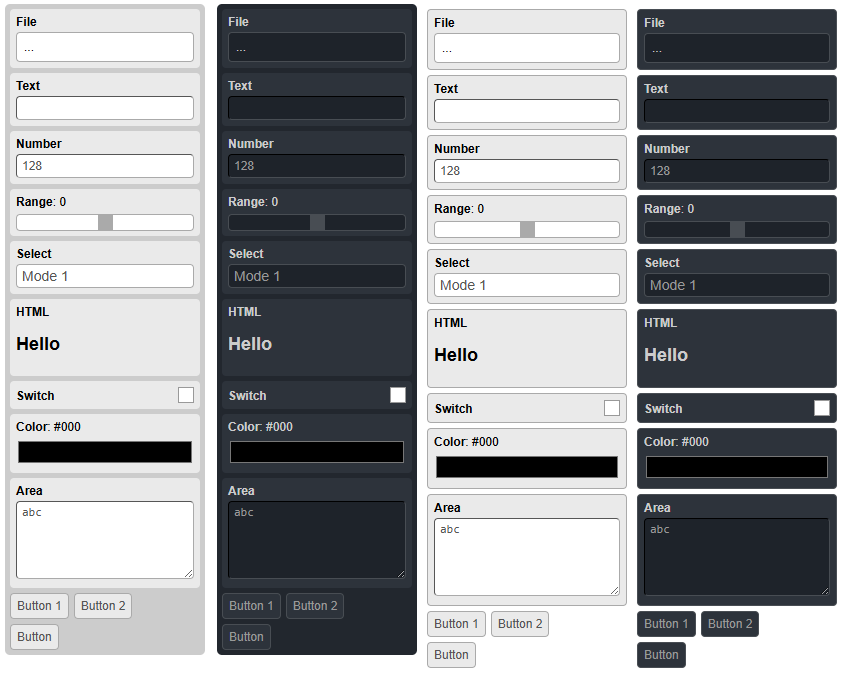
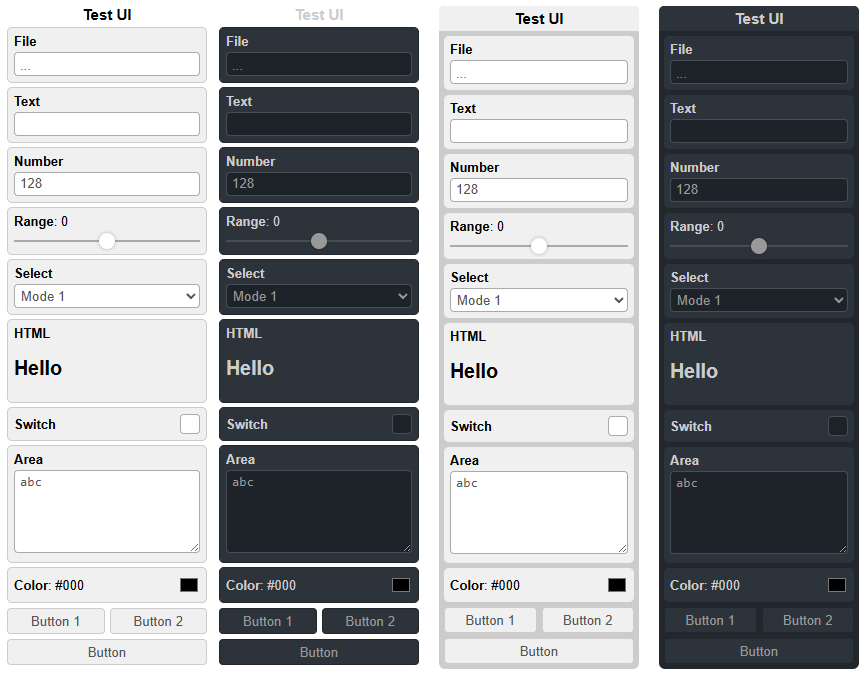
upd

Changed region(s): [[0.0, 0.0, 1.0, 0.9956]]

diff --git a/UI.min.js b/UI.min.js
@@ -1,1 +1,1 @@
-class t{static ctx;constructor(e,r={},n=!1){t.ctx=this,this.$root=t.make(e,r,n)}static make(e,r={},n=!1){return e&&"object"==typeof r?r instanceof Node?r:("svg"==e&&(n=!0),t.config(n?document.createElementNS("http://www.w3.org/2000/svg",e):document.createElement(e),r,n)):null}static config(e,r,n=!1){if(Array.isArray(e))return e.forEach(e=>t.config(e,r,n)),null;if(!(e instanceof Node)||"object"!=typeof r)return e;let a=r.context;t.ctx=null===a?null:a||t.ctx,a=t.ctx;let o=r=>{if(r)if(r instanceof Node)e.appendChild(r);else if(r instanceof t)e.appendChild(r.$root);else if("string"==typeof r)e.innerHTML+=r;else if("object"==typeof r){let a=t.make(r.tag??"div",r,n||"svg"==r.tag);a&&e.appendChild(a)}};for(const[n,i]of Object.entries(r)){switch(n){case"text":e.textContent=null==i?"":i+"";continue;case"html":e.innerHTML=null==i?"":i+"";continue;case"tag":case"context":case"get":case"also":continue}if(i)switch(n){case"class":(Array.isArray(i)?i:i.split(" ")).map(t=>t&&e.classList.add(t));break;case"push":i.push(e);break;case"$":case"var":a&&(a["$"+i]=e);break;case"events":for(let t in i)e.addEventListener(t,i[t].bind(a));break;case"parent":i.appendChild(e);break;case"attrs":for(let t in i)e.setAttribute(t,i[t]);break;case"props":for(let t in i)e[t]=i[t];break;case"child_r":t.clear(e);case"child":o(i);break;case"children_r":t.clear(e);case"children":for(let t of i)o(t);break;case"style":if("string"==typeof i)e.style.cssText+=i+";";else for(let t in i)i[t]&&(e.style[t]=i[t]);break;default:e[n]=i}}return r.also&&a&&r.also.call(a,e),e}static clear(t){for(;t.firstChild;)t.removeChild(t.lastChild)}static makeArray(e,r=!1){return e&&Array.isArray(e)?e.map(e=>t.make(e.tag,e,r)):[]}static makeShadow(e,r={},n=null){if(!e||"object"!=typeof r)return null;let a=e instanceof Node?e:document.createElement(e);return a.attachShadow({mode:"open"}),t.config(a.shadowRoot,{context:r.context,children:[{tag:"style",textContent:n??""},r.child??{},...r.children??[]]}),delete r.children,delete r.child,t.config(a,r),a}}new Set,new Map;class e{_data;constructor(t){this._data=t}get label(){return this._data.$label.innerText}set label(t){return this._data.$label.innerText=t+""}get value(){return this._data.$control.value}set value(t){return this._data.$control.value=t+""}get input(){return this._data.$control}display(t){this._data.$container.style.display=t?"block":"none"}show(){this.display(1)}hide(){this.display(0)}remove(){this._data.$container.remove()}default(){this.value=this._data.default+"",this._data.$output&&(this._data.$output.innerText=this._data.default+"")}}class r extends e{constructor(t){super(t)}set value(t){return this._data.$output&&(this._data.$output.innerText=t+""),this._data.$control.value=t+""}get value(){return Number(this._data.$control.value)}}class n extends e{constructor(t){super(t)}get value(){return this._data.$control.checked?1:0}set value(t){return this._data.$control.checked=t}default(){this.value=this._data.default}}class a extends e{constructor(t){super(t)}get value(){return this._data.$control.innerHTML}set value(t){return this._data.$control.innerHTML=t+""}}class o extends e{constructor(t){super(t)}get value(){return this._data.$control.files[0]}set value(t){}}class i extends e{constructor(t){super(t)}set value(t){}get value(){return 1}}class s extends r{constructor(t){super(t)}set options(e){return this._data.$control.replaceChildren(...e.map((e,r)=>t.make("option",{text:e,value:r+""})))}}class l extends e{constructor(t){super(t)}set value(t){this._data.$control.innerText=t+""}get value(){return this._data.$control.innerText}}class c{constructor(t={}){return c.css=function(t){if(t){let e=document.createElement("style");e.innerText=t,document.head.appendChild(e)}return null}(c.css),this.init(t)}init(e){return e&&"object"==typeof e?(this.autoVar=e.autoVar??!0,t.make("div",{class:"ui_main theme-"+(e.theme??"light"),style:{zIndex:e.zIndex??3,left:e.x??0,top:e.y??0,width:e.width?"string"==typeof e.width?e.width:e.width+"px":"200px",position:e.parent?"":"absolute"},parent:e.parent??document.body,children:[e.title&&{class:"ui_title_bar",text:e.title},{class:"ui_content",$:"content"}],$:"root",context:this}),this):this}setTheme(t){return this.$root.classList="ui_main theme-"+t,this}destroy(){this.$root&&(this.$root.remove(),this.$root=void 0,this.#t=new Map)}setLabels(t){for(let e in t)this.#t.has(e)&&(this.#t.get(e).label=t[e])}toObject(){let t={};return this.#t.forEach((e,r)=>{!e.value||e instanceof i||(t[r]=e.value)}),t}toJson(){return JSON.stringify(this.toObject())}fromObject(t){for(let e in t)this.#t.has(e)&&(this.#t.get(e).value=t[e])}fromJson(t){this.fromObject(JSON.parse(t))}control(t){return this.#t.get(t)}get(t){return this.#t.has(t)?this.#t.get(t).value:void 0}set(t,e){return this.#t.has(t)&&(this.#t.get(t).value=e),e}remove(t){"string"==typeof t&&(t=[t]);for(let e of t)this.#t.has(e)&&(this.#t.get(e).remove(),this.#t.delete(e),Object.defineProperty(this,e,{get:void 0,set:void 0}))}removeAll(){this.remove(Array.from(this.#t.keys())),function(t){for(;t.firstChild;)t.removeChild(t.lastChild)}(this.$content)}onChange(t){this.#e=t}addSwitch(e,r,a,o){if(this.#t.has(e))return this;let i={default:a=a?1:0};return t.make("div",{context:i,$:"container",class:"ui_container",parent:this.$content,child:{tag:"label",class:"ui_checkbox_cont",children:[{tag:"label",text:r,$:"label"},{tag:"div",class:"ui_checkbox",child:{tag:"label",children:[{tag:"input",type:"checkbox",checked:a,$:"control",events:{change:t=>{let r=t.target.checked?1:0;this.#e(e,r),o&&o(r)}}},{tag:"span"}]}}]}}),e&&this.#t.set(e,new n(i)),this._addSetGet(e),this}addNumber(e,n,a,o,i){if(this.#t.has(e))return this;a=a??0;let s=this._makeContainer(n);return s.default=a,t.make("input",{parent:s.$container,context:s,type:"number",class:"ui_text_input",step:(o??1)+"",value:a+"",$:"control",events:{input:t=>{let r=Number(t.target.value);this.#e(e,r),i&&i(r)},mousewheel:()=>{}}}),e&&this.#t.set(e,new r(s)),this._addSetGet(e),this}addText(r,n,a,o){if(this.#t.has(r))return this;a=a??"";let i=this._makeContainer(n);return i.default=a,t.make("input",{parent:i.$container,context:i,type:"text",class:"ui_text_input",value:a+"",$:"control",events:{input:t=>{let e=t.target.value;this.#e(r,e),o&&o(e)}}}),r&&this.#t.set(r,new e(i)),this._addSetGet(r),this}addRange(...t){return this.addSlider(...t)}addRange(e,n,a,o,i,s,l){if(this.#t.has(e))return this;a=a??0;let c=this._makeContainerOut(n,a);return c.default=a,t.make("div",{parent:c.$container,context:c,class:"ui_range_cont",child:{tag:"input",type:"range",class:"ui_range",value:a+"",min:(o??0)+"",max:(i??100)+"",step:(s??1)+"",$:"control",events:{input:t=>{let r=Number(t.target.value);this.#e(e,r),l&&l(r),c.$output.innerText=r},mousewheel:t=>{t.stopPropagation(),t.preventDefault();let e=t.target;e.value=Number(e.value)+Number(e.step)*(t.deltaY>0?-1:1),e.dispatchEvent(new Event("input"))}}}}),e&&this.#t.set(e,new r(c)),this._addSetGet(e),this}addArea(r,n,a,o,i=5){if(this.#t.has(r))return this;a=a??"";let s=this._makeContainer(n);return s.default=a,t.make("textarea",{parent:s.$container,context:s,class:"ui_textarea",rows:i,value:a+"",$:"control",events:{input:t=>{let e=t.target.value;this.#e(r,e),o&&o(e)}}}),r&&this.#t.set(r,new e(s)),this._addSetGet(r),this}addHTML(e,r,n){if(this.#t.has(e))return this;n=n??"";let o=this._makeContainer(r);return o.default=n,t.make("div",{parent:o.$container,context:o,html:n+"",$:"control"}),e&&this.#t.set(e,new a(o)),this._addSetGet(e),this}addElement(t,e,r){if(this.#t.has(t))return this;let n=this._makeContainer(e);return n.default=r,n.$control=r,n.$container.append(r),t&&this.#t.set(t,new a(n)),this._addSetGet(t),this}addSelect(e,r,n,a){if(this.#t.has(e))return this;n=n??[];let o=this._makeContainer(r);return o.default=0,t.make("select",{parent:o.$container,context:o,class:"ui_select",$:"control",events:{change:t=>{let r=t.target.selectedIndex,n=t.target.options[r].text;this.#e(e,r,n),a&&a(r,n)}},children:n.map((e,r)=>t.make("option",{text:e,value:r+""}))}),e&&this.#t.set(e,new s(o)),this._addSetGet(e),this}addButton(e,r,n){if(this.#t.has(e))return this;let a={};return t.make("div",{context:a,$:"container",class:"ui_button_cont",parent:this.$content,children:[this._makeButton(a,e,r,n)]}),a.$label=a.$control,e&&this.#t.set(e,new i(a)),this}addButtons(e){let r=t.make("div",{class:"ui_button_cont",parent:this.$content});for(let t in e){let n={$container:r},a=e[t];r.append(Array.isArray(a)?this._makeButton(n,t,a[0],a[1]):this._makeButton(n,t,a)),n.$label=n.$control,t&&this.#t.set(t,new i(n))}return this}addFile(e,r,n){if(this.#t.has(e))return this;let a=this._makeContainer(r),i=t=>{let r=1==t.length?t[0]:t;this.#e(e,r),n&&n(r),a.$filename.innerText=t[0].name};return a.$container.append(...t.makeArray([{tag:"input",context:a,class:"ui_file_chooser",type:"file",$:"control",attrs:{multiple:!0},also(t){t.addEventListener("change",()=>i(t.files))}},{tag:"label",context:a,class:"ui_file_chooser_label",text:"...",$:"filename",also(t){t.addEventListener("click",()=>a.$control.click()),t.addEventListener("drop",t=>i(t.dataTransfer.files))}}])),e&&this.#t.set(e,new o(a)),["dragenter","dragover","dragleave","drop"].forEach(t=>{this.$root.addEventListener(t,t=>{t.preventDefault(),t.stopPropagation()},!1)}),["dragenter","dragover"].forEach(t=>{this.$root.addEventListener(t,function(){a.$filename.classList.add("active")},!1)}),["dragleave","drop"].forEach(t=>{this.$root.addEventListener(t,function(){a.$filename.classList.remove("active")},!1)}),this._addSetGet(e),this}addColor(e,n,a,o){if(this.#t.has(e))return this;a=a??"#000";let i=this._makeContainerOut(n,a);return i.default=a,i.$container.append(t.make("input",{context:i,type:"color",class:"ui_color",value:a,$:"control",attrs:{"colorpick-eyedropper-active":!1},events:{input:t=>{let r=t.target.value;this.#e(e,r),o&&o(r),i.$output.innerText=r}}})),e&&this.#t.set(e,new r(i)),this._addSetGet(e),this}addLabel(t,e,r){if(this.#t.has(t))return this;r=r??"";let n=this._makeContainerOut(e,r);return n.$control=n.$output,t&&this.#t.set(t,new l(n)),this._addSetGet(t),this}addSpace(e=5){return t.make("div",{style:`height: ${e}px`,parent:this.$content}),this}_addSetGet(t){this.autoVar&&t&&Object.defineProperty(this,t,{get:()=>this.get(t),set:e=>this.set(t,e),configurable:!0})}_checkID(t){return t||"_empty_"+this.#r++}_makeButton(e,r,n,a){return t.make("button",{context:e,class:"ui_button",$:"control",text:n+"",events:{click:t=>{this.#e(r),a&&a()}}})}_makeContainer(e){let r={};return t.make("div",{context:r,$:"container",class:"ui_container",parent:this.$content,children:[{class:"ui_label",children:[{tag:"b",$:"label",text:e}]}]}),r}_makeContainerOut(e,r){let n={};return t.make("div",{context:n,$:"container",class:"ui_container",parent:this.$content,children:[{class:"ui_label",children:[{tag:"b",text:e,$:"label"},{tag:"span",text:": "},{tag:"span",text:r+"",$:"output"}]}]}),n}#t=new Map;#r=0;#e=()=>{};static css='.ui_main.theme-light{--border:#aaa;--back:#fff;--mid:#ccc;--tab:#f0f0f0;--font:#000;--font-mid:#555;--thumb:var(--back)}.ui_main.theme-dark{--border:#484d53;--back:rgb(30, 35, 42);--mid:#22272E;--tab:#2D333B;--font:#ccc;--font-mid:#999;--thumb:var(--font-mid)}.ui_main{background-color:var(--mid);text-align:left;font:13px sans-serif;user-select:none;border:none;border-radius:6px}.ui_main.noback{background:none}.ui_main.noback .ui_container{border:1px solid var(--mid);margin:4px 0}.ui_main.noback .ui_title_bar{background:none;padding:0}.ui_main.noback .ui_button_cont{margin:5px 0}.ui_content{overflow-y:auto;border-radius:6px}.ui_title_bar{text-align:center;padding:4px;font-weight:700;border:none;background:var(--tab);color:var(--font);font-size:15px;border-radius:5px 5px 0 0}.ui_container{margin:5px;padding:6px;border:none;position:relative;background:var(--tab);color:var(--font);border-radius:5px}.ui_range_cont{display:flex;align-items:center;padding:8px 0 6px 0}.ui_range{appearance:none;box-sizing:border-box;margin:0;padding:0;width:100%;height:2px;background:var(--border);cursor:pointer;touch-action:none}.ui_range::-webkit-slider-thumb{appearance:none;background:var(--thumb);width:16px;height:16px;border-radius:50%;box-shadow:0 0 4px #0000005a}.ui_range::-moz-range-thumb{border:none;background:var(--thumb);width:16px;height:16px;border-radius:50%}.ui_button_cont{margin:5px;gap:5px;display:flex}.ui_button{cursor:pointer;background:var(--tab);color:var(--font-mid);height:26px;border:1px solid var(--mid);border-radius:4px;width:100%}.ui_button:hover{filter:brightness(.96)}.ui_button:active{background:var(--back)}.ui_checkbox_cont{cursor:pointer;display:flex;align-items:center;justify-content:space-between}.ui_checkbox_cont label{font-weight:700;pointer-events:none}.ui_checkbox{display:inline-block}.ui_checkbox label{display:flex;align-items:center;cursor:pointer;user-select:none}.ui_checkbox input{display:none}.ui_checkbox span{width:18px;height:18px;border:1px solid var(--border);border-radius:4px;background-color:var(--back);position:relative}.ui_checkbox input:checked+span::after{content:"✓";position:absolute;left:3px;top:-2px;font-size:16px;color:var(--font);font-weight:700}.ui_label{margin-bottom:3px;user-select:none;-webkit-user-select:none;cursor:default}.ui_text_input{box-sizing:border-box;width:100%;padding:5px;height:24px;line-height:24px;border:1px solid var(--border);background:var(--back);color:var(--font-mid);outline:none;border-radius:4px}.ui_select{background:var(--back);color:var(--font-mid);width:100%;height:24px;border:1px solid var(--border);border-radius:0;padding:0 2px;cursor:pointer;border-radius:4px}.ui_textarea{box-sizing:border-box;resize:vertical;width:100%;padding:3px 5px;border:1px solid var(--border);background:var(--back);color:var(--font-mid);outline:none;border-radius:4px}.ui_textarea::-webkit-scrollbar{width:7px;height:7px}.ui_textarea::-webkit-scrollbar-track{background:none}.ui_textarea::-webkit-scrollbar-thumb{background:var(--border);border-radius:4px}.ui_color{padding:0;margin:0;outline:none;cursor:pointer;background:none;border:none;height:24px;width:100%}.ui_file_chooser{display:none}.ui_file_chooser_label{background:var(--back);color:var(--font-mid);height:24px;border:1px solid var(--border);width:100%;display:block;cursor:pointer;padding:5px;box-sizing:border-box;white-space:nowrap;overflow:hidden;text-overflow:ellipsis;border-radius:4px}.ui_file_chooser_label.active{border-width:2px}'}export{c as default};
+class t{static ctx;constructor(e,r={},n=!1){t.ctx=this,this.$root=t.make(e,r,n)}static make(e,r={},n=!1){return e&&"object"==typeof r?r instanceof Node?r:("svg"==e&&(n=!0),t.config(n?document.createElementNS("http://www.w3.org/2000/svg",e):document.createElement(e),r,n)):null}static config(e,r,n=!1){if(Array.isArray(e))return e.forEach(e=>t.config(e,r,n)),null;if(!(e instanceof Node)||"object"!=typeof r)return e;let a=r.context;t.ctx=null===a?null:a||t.ctx,a=t.ctx;let o=r=>{if(r)if(r instanceof Node)e.appendChild(r);else if(r instanceof t)e.appendChild(r.$root);else if("string"==typeof r)e.innerHTML+=r;else if("object"==typeof r){let a=t.make(r.tag??"div",r,n||"svg"==r.tag);a&&e.appendChild(a)}};for(const[n,i]of Object.entries(r)){switch(n){case"text":e.textContent=null==i?"":i+"";continue;case"html":e.innerHTML=null==i?"":i+"";continue;case"tag":case"context":case"get":case"also":continue}if(i)switch(n){case"class":(Array.isArray(i)?i:i.split(" ")).map(t=>t&&e.classList.add(t));break;case"push":i.push(e);break;case"$":case"var":a&&(a["$"+i]=e);break;case"events":for(let t in i)e.addEventListener(t,i[t].bind(a));break;case"parent":i.appendChild(e);break;case"attrs":for(let t in i)e.setAttribute(t,i[t]);break;case"props":for(let t in i)e[t]=i[t];break;case"child_r":t.clear(e);case"child":o(i);break;case"children_r":t.clear(e);case"children":for(let t of i)o(t);break;case"style":if("string"==typeof i)e.style.cssText+=i+";";else for(let t in i)i[t]&&(e.style[t]=i[t]);break;default:e[n]=i}}return r.also&&a&&r.also.call(a,e),e}static clear(t){for(;t.firstChild;)t.removeChild(t.lastChild)}static makeArray(e,r=!1){return e&&Array.isArray(e)?e.map(e=>t.make(e.tag,e,r)):[]}static makeShadow(e,r={},n=null){if(!e||"object"!=typeof r)return null;let a=e instanceof Node?e:document.createElement(e);return a.attachShadow({mode:"open"}),t.config(a.shadowRoot,{context:r.context,children:[{tag:"style",textContent:n??""},r.child??{},...r.children??[]]}),delete r.children,delete r.child,t.config(a,r),a}}new Set,new Map;class e{_data;constructor(t){this._data=t}get label(){return this._data.$label.innerText}set label(t){return this._data.$label.innerText=t+""}get value(){return this._data.$control.value}set value(t){return this._data.$control.value=t+""}get input(){return this._data.$control}display(t){this._data.$container.style.display=t?"block":"none"}show(){this.display(1)}hide(){this.display(0)}remove(){this._data.$container.remove()}default(){this.value=this._data.default+"",this._data.$output&&(this._data.$output.innerText=this._data.default+"")}}class r extends e{constructor(t){super(t)}set value(t){return this._data.$output&&(this._data.$output.innerText=t+""),this._data.$control.value=t+""}get value(){return Number(this._data.$control.value)}}class n extends e{constructor(t){super(t)}get value(){return this._data.$control.checked?1:0}set value(t){return this._data.$control.checked=t}default(){this.value=this._data.default}}class a extends e{constructor(t){super(t)}get value(){return this._data.$control.innerHTML}set value(t){return this._data.$control.innerHTML=t+""}}class o extends e{constructor(t){super(t)}get value(){return this._data.$control.files[0]}set value(t){}}class i extends e{constructor(t){super(t)}set value(t){}get value(){return 1}}class s extends r{constructor(t){super(t)}set options(e){return this._data.$control.replaceChildren(...e.map((e,r)=>t.make("option",{text:e,value:r+""})))}}class l extends e{constructor(t){super(t)}set value(t){this._data.$control.innerText=t+""}get value(){return this._data.$control.innerText}}class c{constructor(t={}){return c.css=function(t){if(t){let e=document.createElement("style");e.innerText=t,document.head.appendChild(e)}return null}(c.css),this.init(t)}init(e){return e&&"object"==typeof e?(this.autoVar=e.autoVar??!0,t.make("div",{class:"ui_main theme-"+(e.theme??"light"),style:{zIndex:e.zIndex??3,left:e.x??0,top:e.y??0,width:e.width?"string"==typeof e.width?e.width:e.width+"px":"200px",position:e.parent?"":"absolute"},parent:e.parent??document.body,children:[e.title&&{class:"ui_title_bar",text:e.title},{class:"ui_content",$:"content"}],$:"root",context:this}),this):this}setTheme(t){return this.$root.classList="ui_main theme-"+t,this}destroy(){this.$root&&(this.$root.remove(),this.$root=void 0,this.#t=new Map)}setLabels(t){for(let e in t)this.#t.has(e)&&(this.#t.get(e).label=t[e])}toObject(){let t={};return this.#t.forEach((e,r)=>{!e.value||e instanceof i||(t[r]=e.value)}),t}toJson(){return JSON.stringify(this.toObject())}fromObject(t){for(let e in t)this.#t.has(e)&&(this.#t.get(e).value=t[e])}fromJson(t){this.fromObject(JSON.parse(t))}control(t){return this.#t.get(t)}get(t){return this.#t.has(t)?this.#t.get(t).value:void 0}set(t,e){return this.#t.has(t)&&(this.#t.get(t).value=e),e}remove(t){"string"==typeof t&&(t=[t]);for(let e of t)this.#t.has(e)&&(this.#t.get(e).remove(),this.#t.delete(e),Object.defineProperty(this,e,{get:void 0,set:void 0}))}removeAll(){this.remove(Array.from(this.#t.keys())),function(t){for(;t.firstChild;)t.removeChild(t.lastChild)}(this.$content)}onChange(t){this.#e=t}addSwitch(e,r,a,o){if(this.#t.has(e))return this;let i={default:a=a?1:0};return t.make("div",{context:i,$:"container",class:"ui_container",parent:this.$content,child:{tag:"label",class:"ui_checkbox_cont",children:[{tag:"label",text:r,$:"label"},{tag:"div",class:"ui_checkbox",child:{tag:"label",children:[{tag:"input",type:"checkbox",checked:a,$:"control",events:{change:t=>{let r=t.target.checked?1:0;this.#e(e,r),o&&o(r)}}},{tag:"span"}]}}]}}),e&&this.#t.set(e,new n(i)),this._addSetGet(e),this}addNumber(e,n,a,o,i){if(this.#t.has(e))return this;a=a??0;let s=this._makeContainer(n);return s.default=a,t.make("input",{parent:s.$container,context:s,type:"number",class:"ui_text_input",step:(o??1)+"",value:a+"",$:"control",events:{input:t=>{let r=Number(t.target.value);this.#e(e,r),i&&i(r)},mousewheel:()=>{}}}),e&&this.#t.set(e,new r(s)),this._addSetGet(e),this}addText(r,n,a,o){if(this.#t.has(r))return this;a=a??"";let i=this._makeContainer(n);return i.default=a,t.make("input",{parent:i.$container,context:i,type:"text",class:"ui_text_input",value:a+"",$:"control",events:{input:t=>{let e=t.target.value;this.#e(r,e),o&&o(e)}}}),r&&this.#t.set(r,new e(i)),this._addSetGet(r),this}addRange(...t){return this.addSlider(...t)}addSlider(e,n,a,o,i,s,l){if(this.#t.has(e))return this;a=a??0;let c=this._makeContainerOut(n,a);return c.default=a,t.make("div",{parent:c.$container,context:c,class:"ui_range_cont",child:{tag:"input",type:"range",class:"ui_range",value:a+"",min:(o??0)+"",max:(i??100)+"",step:(s??1)+"",$:"control",events:{input:t=>{let r=Number(t.target.value);this.#e(e,r),l&&l(r),c.$output.innerText=r},mousewheel:t=>{t.stopPropagation(),t.preventDefault();let e=t.target;e.value=Number(e.value)+Number(e.step)*(t.deltaY>0?-1:1),e.dispatchEvent(new Event("input"))}}}}),e&&this.#t.set(e,new r(c)),this._addSetGet(e),this}addArea(r,n,a,o,i=5){if(this.#t.has(r))return this;a=a??"";let s=this._makeContainer(n);return s.default=a,t.make("textarea",{parent:s.$container,context:s,class:"ui_textarea",rows:i,value:a+"",$:"control",events:{input:t=>{let e=t.target.value;this.#e(r,e),o&&o(e)}}}),r&&this.#t.set(r,new e(s)),this._addSetGet(r),this}addHTML(e,r,n){if(this.#t.has(e))return this;n=n??"";let o=this._makeContainer(r);return o.default=n,t.make("div",{parent:o.$container,context:o,html:n+"",$:"control"}),e&&this.#t.set(e,new a(o)),this._addSetGet(e),this}addElement(t,e,r){if(this.#t.has(t))return this;let n=this._makeContainer(e);return n.default=r,n.$control=r,n.$container.append(r),t&&this.#t.set(t,new a(n)),this._addSetGet(t),this}addSelect(e,r,n,a){if(this.#t.has(e))return this;n=n??[];let o=this._makeContainer(r);return o.default=0,t.make("select",{parent:o.$container,context:o,class:"ui_select",$:"control",events:{change:t=>{let r=t.target.selectedIndex,n=t.target.options[r].text;this.#e(e,r,n),a&&a(r,n)}},children:n.map((e,r)=>t.make("option",{text:e,value:r+""}))}),e&&this.#t.set(e,new s(o)),this._addSetGet(e),this}addButton(e,r,n){if(this.#t.has(e))return this;let a={};return t.make("div",{context:a,$:"container",class:"ui_button_cont",parent:this.$content,children:[this._makeButton(a,e,r,n)]}),a.$label=a.$control,e&&this.#t.set(e,new i(a)),this}addButtons(e){let r=t.make("div",{class:"ui_button_cont",parent:this.$content});for(let t in e){let n={$container:r},a=e[t];r.append(Array.isArray(a)?this._makeButton(n,t,a[0],a[1]):this._makeButton(n,t,a)),n.$label=n.$control,t&&this.#t.set(t,new i(n))}return this}addFile(e,r,n){if(this.#t.has(e))return this;let a=this._makeContainer(r),i=t=>{let r=1==t.length?t[0]:t;this.#e(e,r),n&&n(r),a.$filename.innerText=t[0].name};return a.$container.append(...t.makeArray([{tag:"input",context:a,class:"ui_file_chooser",type:"file",$:"control",attrs:{multiple:!0},also(t){t.addEventListener("change",()=>i(t.files))}},{tag:"label",context:a,class:"ui_file_chooser_label",text:"...",$:"filename",also(t){t.addEventListener("click",()=>a.$control.click()),t.addEventListener("drop",t=>i(t.dataTransfer.files))}}])),e&&this.#t.set(e,new o(a)),["dragenter","dragover","dragleave","drop"].forEach(t=>{this.$root.addEventListener(t,t=>{t.preventDefault(),t.stopPropagation()},!1)}),["dragenter","dragover"].forEach(t=>{this.$root.addEventListener(t,function(){a.$filename.classList.add("active")},!1)}),["dragleave","drop"].forEach(t=>{this.$root.addEventListener(t,function(){a.$filename.classList.remove("active")},!1)}),this._addSetGet(e),this}addColor(e,n,a,o){if(this.#t.has(e))return this;a=a??"#000";let i=this._makeContainerOut(n,a);return i.default=a,t.config(i.$container,{context:i,class:"ui_color_cont",child:{tag:"input",type:"color",class:"ui_color",value:a,$:"control",attrs:{"colorpick-eyedropper-active":!1},events:{input:t=>{let r=t.target.value;this.#e(e,r),o&&o(r),i.$output.innerText=r}}}}),e&&this.#t.set(e,new r(i)),this._addSetGet(e),this}addLabel(t,e,r){if(this.#t.has(t))return this;r=r??"";let n=this._makeContainerOut(e,r);return n.$control=n.$output,t&&this.#t.set(t,new l(n)),this._addSetGet(t),this}addSpace(e=5){return t.make("div",{style:`height: ${e}px`,parent:this.$content}),this}_addSetGet(t){this.autoVar&&t&&Object.defineProperty(this,t,{get:()=>this.get(t),set:e=>this.set(t,e),configurable:!0})}_checkID(t){return t||"_empty_"+this.#r++}_makeButton(e,r,n,a){return t.make("button",{context:e,class:"ui_button",$:"control",text:n+"",events:{click:t=>{this.#e(r),a&&a()}}})}_makeContainer(e){let r={};return t.make("div",{context:r,$:"container",class:"ui_container",parent:this.$content,children:[{class:"ui_label",children:[{tag:"b",$:"label",text:e}]}]}),r}_makeContainerOut(e,r){let n={};return t.make("div",{context:n,$:"container",class:"ui_container",parent:this.$content,children:[{class:"ui_label",children:[{tag:"b",text:e,$:"label"},{tag:"span",text:": "},{tag:"span",text:r+"",$:"output"}]}]}),n}#t=new Map;#r=0;#e=()=>{};static css='.ui_main.theme-light{--border:#aaa;--back:#fff;--mid:#ccc;--tab:#f0f0f0;--font:#000;--font-mid:#555;--thumb:var(--back)}.ui_main.theme-dark{--border:#484d53;--back:rgb(30, 35, 42);--mid:#22272E;--tab:#2D333B;--font:#ccc;--font-mid:#999;--thumb:var(--font-mid)}.ui_main{background-color:var(--mid);text-align:left;font:13px sans-serif;user-select:none;border:none;border-radius:6px}.ui_main.noback{background:none}.ui_main.noback .ui_container{border:1px solid var(--mid);margin:4px 0}.ui_main.noback .ui_title_bar{background:none;padding:0}.ui_main.noback .ui_button_cont{margin:5px 0}.ui_content{overflow-y:auto;border-radius:6px}.ui_title_bar{text-align:center;padding:4px;font-weight:700;border:none;background:var(--tab);color:var(--font);font-size:15px;border-radius:5px 5px 0 0}.ui_container{margin:5px;padding:6px;border:none;position:relative;background:var(--tab);color:var(--font);border-radius:5px}.ui_range_cont{display:flex;align-items:center;padding:8px 0 6px 0}.ui_range{appearance:none;box-sizing:border-box;margin:0;padding:0;width:100%;height:2px;background:var(--border);cursor:pointer;touch-action:none}.ui_range::-webkit-slider-thumb{appearance:none;background:var(--thumb);width:16px;height:16px;border-radius:50%;box-shadow:0 0 4px #0000005a}.ui_range::-moz-range-thumb{border:none;background:var(--thumb);width:16px;height:16px;border-radius:50%}.ui_button_cont{margin:5px;gap:5px;display:flex}.ui_button{cursor:pointer;background:var(--tab);color:var(--font-mid);height:26px;border:1px solid var(--mid);border-radius:4px;width:100%}.ui_button:hover{filter:brightness(.96)}.ui_button:active{background:var(--back)}.ui_checkbox_cont{cursor:pointer;display:flex;align-items:center;justify-content:space-between}.ui_checkbox_cont label{font-weight:700;pointer-events:none}.ui_checkbox{display:inline-block}.ui_checkbox label{display:flex;align-items:center;cursor:pointer;user-select:none}.ui_checkbox input{display:none}.ui_checkbox span{width:18px;height:18px;border:1px solid var(--border);border-radius:4px;background-color:var(--back);position:relative}.ui_checkbox input:checked+span::after{content:"✓";position:absolute;left:3px;top:-2px;font-size:16px;color:var(--font);font-weight:700}.ui_label{margin-bottom:3px;user-select:none;-webkit-user-select:none;cursor:default}.ui_text_input{box-sizing:border-box;width:100%;padding:5px;height:24px;line-height:24px;border:1px solid var(--border);background:var(--back);color:var(--font-mid);outline:none;border-radius:4px}.ui_select{background:var(--back);color:var(--font-mid);width:100%;height:24px;border:1px solid var(--border);border-radius:0;padding:0 2px;cursor:pointer;border-radius:4px}.ui_textarea{box-sizing:border-box;resize:vertical;width:100%;padding:3px 5px;border:1px solid var(--border);background:var(--back);color:var(--font-mid);outline:none;border-radius:4px}.ui_textarea::-webkit-scrollbar{width:7px;height:7px}.ui_textarea::-webkit-scrollbar-track{background:none}.ui_textarea::-webkit-scrollbar-thumb{background:var(--border);border-radius:4px}.ui_color_cont{display:flex;align-items:center;justify-content:space-between}.ui_color_cont .ui_label{margin:0}.ui_color{cursor:pointer;padding:0;margin:0;outline:none;border:none;background:none;height:22px;width:22px}.ui_file_chooser{display:none}.ui_file_chooser_label{background:var(--back);color:var(--font-mid);height:24px;border:1px solid var(--border);width:100%;display:block;cursor:pointer;padding:5px;box-sizing:border-box;white-space:nowrap;overflow:hidden;text-overflow:ellipsis;border-radius:4px}.ui_file_chooser_label.active{border-width:2px}'}export{c as default};

diff --git a/UI.js b/UI.js
@@ -434,7 +434,7 @@ export default class UI {
     addRange(...args) {
         return this.addSlider(...args);
     }
-    addRange(id, label, value, min, max, step, callback) {
+    addSlider(id, label, value, min, max, step, callback) {
         if (this.#controls.has(id)) return this;
         value = value ?? 0;
         let data = this._makeContainerOut(label, value);
@@ -697,22 +697,26 @@ export default class UI {
         value = value ?? '#000';
         let data = this._makeContainerOut(label, value);
         data.default = value;
-        data.$container.append(EL.make('input', {
+        EL.config(data.$container, {
             context: data,
-            type: 'color',
-            class: 'ui_color',
-            value: value,
-            $: 'control',
-            attrs: { 'colorpick-eyedropper-active': false },
-            events: {
-                input: e => {
-                    let v = e.target.value;
-                    this.#cb(id, v);
-                    if (callback) callback(v);
-                    data.$output.innerText = v;
-                }
-            },
-        }));
+            class: 'ui_color_cont',
+            child: {
+                tag: 'input',
+                type: 'color',
+                class: 'ui_color',
+                value: value,
+                $: 'control',
+                attrs: { 'colorpick-eyedropper-active': false },
+                events: {
+                    input: e => {
+                        let v = e.target.value;
+                        this.#cb(id, v);
+                        if (callback) callback(v);
+                        data.$output.innerText = v;
+                    }
+                },
+            }
+        });
         if (id) this.#controls.set(id, new ControlNumber(data));
         this._addSetGet(id);
         return this;
@@ -830,5 +834,5 @@ export default class UI {
     #cb = () => { };
 
     // https://www.minifier.org/
-    static css = `.ui_main.theme-light{--border:#aaa;--back:#fff;--mid:#ccc;--tab:#f0f0f0;--font:#000;--font-mid:#555;--thumb:var(--back)}.ui_main.theme-dark{--border:#484d53;--back:rgb(30, 35, 42);--mid:#22272E;--tab:#2D333B;--font:#ccc;--font-mid:#999;--thumb:var(--font-mid)}.ui_main{background-color:var(--mid);text-align:left;font:13px sans-serif;user-select:none;border:none;border-radius:6px}.ui_main.noback{background:none}.ui_main.noback .ui_container{border:1px solid var(--mid);margin:4px 0}.ui_main.noback .ui_title_bar{background:none;padding:0}.ui_main.noback .ui_button_cont{margin:5px 0}.ui_content{overflow-y:auto;border-radius:6px}.ui_title_bar{text-align:center;padding:4px;font-weight:700;border:none;background:var(--tab);color:var(--font);font-size:15px;border-radius:5px 5px 0 0}.ui_container{margin:5px;padding:6px;border:none;position:relative;background:var(--tab);color:var(--font);border-radius:5px}.ui_range_cont{display:flex;align-items:center;padding:8px 0 6px 0}.ui_range{appearance:none;box-sizing:border-box;margin:0;padding:0;width:100%;height:2px;background:var(--border);cursor:pointer;touch-action:none}.ui_range::-webkit-slider-thumb{appearance:none;background:var(--thumb);width:16px;height:16px;border-radius:50%;box-shadow:0 0 4px #0000005a}.ui_range::-moz-range-thumb{border:none;background:var(--thumb);width:16px;height:16px;border-radius:50%}.ui_button_cont{margin:5px;gap:5px;display:flex}.ui_button{cursor:pointer;background:var(--tab);color:var(--font-mid);height:26px;border:1px solid var(--mid);border-radius:4px;width:100%}.ui_button:hover{filter:brightness(.96)}.ui_button:active{background:var(--back)}.ui_checkbox_cont{cursor:pointer;display:flex;align-items:center;justify-content:space-between}.ui_checkbox_cont label{font-weight:700;pointer-events:none}.ui_checkbox{display:inline-block}.ui_checkbox label{display:flex;align-items:center;cursor:pointer;user-select:none}.ui_checkbox input{display:none}.ui_checkbox span{width:18px;height:18px;border:1px solid var(--border);border-radius:4px;background-color:var(--back);position:relative}.ui_checkbox input:checked+span::after{content:"✓";position:absolute;left:3px;top:-2px;font-size:16px;color:var(--font);font-weight:700}.ui_label{margin-bottom:3px;user-select:none;-webkit-user-select:none;cursor:default}.ui_text_input{box-sizing:border-box;width:100%;padding:5px;height:24px;line-height:24px;border:1px solid var(--border);background:var(--back);color:var(--font-mid);outline:none;border-radius:4px}.ui_select{background:var(--back);color:var(--font-mid);width:100%;height:24px;border:1px solid var(--border);border-radius:0;padding:0 2px;cursor:pointer;border-radius:4px}.ui_textarea{box-sizing:border-box;resize:vertical;width:100%;padding:3px 5px;border:1px solid var(--border);background:var(--back);color:var(--font-mid);outline:none;border-radius:4px}.ui_textarea::-webkit-scrollbar{width:7px;height:7px}.ui_textarea::-webkit-scrollbar-track{background:none}.ui_textarea::-webkit-scrollbar-thumb{background:var(--border);border-radius:4px}.ui_color{padding:0;margin:0;outline:none;cursor:pointer;background:none;border:none;height:24px;width:100%}.ui_file_chooser{display:none}.ui_file_chooser_label{background:var(--back);color:var(--font-mid);height:24px;border:1px solid var(--border);width:100%;display:block;cursor:pointer;padding:5px;box-sizing:border-box;white-space:nowrap;overflow:hidden;text-overflow:ellipsis;border-radius:4px}.ui_file_chooser_label.active{border-width:2px}`;
+    static css = `.ui_main.theme-light{--border:#aaa;--back:#fff;--mid:#ccc;--tab:#f0f0f0;--font:#000;--font-mid:#555;--thumb:var(--back)}.ui_main.theme-dark{--border:#484d53;--back:rgb(30, 35, 42);--mid:#22272E;--tab:#2D333B;--font:#ccc;--font-mid:#999;--thumb:var(--font-mid)}.ui_main{background-color:var(--mid);text-align:left;font:13px sans-serif;user-select:none;border:none;border-radius:6px}.ui_main.noback{background:none}.ui_main.noback .ui_container{border:1px solid var(--mid);margin:4px 0}.ui_main.noback .ui_title_bar{background:none;padding:0}.ui_main.noback .ui_button_cont{margin:5px 0}.ui_content{overflow-y:auto;border-radius:6px}.ui_title_bar{text-align:center;padding:4px;font-weight:700;border:none;background:var(--tab);color:var(--font);font-size:15px;border-radius:5px 5px 0 0}.ui_container{margin:5px;padding:6px;border:none;position:relative;background:var(--tab);color:var(--font);border-radius:5px}.ui_range_cont{display:flex;align-items:center;padding:8px 0 6px 0}.ui_range{appearance:none;box-sizing:border-box;margin:0;padding:0;width:100%;height:2px;background:var(--border);cursor:pointer;touch-action:none}.ui_range::-webkit-slider-thumb{appearance:none;background:var(--thumb);width:16px;height:16px;border-radius:50%;box-shadow:0 0 4px #0000005a}.ui_range::-moz-range-thumb{border:none;background:var(--thumb);width:16px;height:16px;border-radius:50%}.ui_button_cont{margin:5px;gap:5px;display:flex}.ui_button{cursor:pointer;background:var(--tab);color:var(--font-mid);height:26px;border:1px solid var(--mid);border-radius:4px;width:100%}.ui_button:hover{filter:brightness(.96)}.ui_button:active{background:var(--back)}.ui_checkbox_cont{cursor:pointer;display:flex;align-items:center;justify-content:space-between}.ui_checkbox_cont label{font-weight:700;pointer-events:none}.ui_checkbox{display:inline-block}.ui_checkbox label{display:flex;align-items:center;cursor:pointer;user-select:none}.ui_checkbox input{display:none}.ui_checkbox span{width:18px;height:18px;border:1px solid var(--border);border-radius:4px;background-color:var(--back);position:relative}.ui_checkbox input:checked+span::after{content:"✓";position:absolute;left:3px;top:-2px;font-size:16px;color:var(--font);font-weight:700}.ui_label{margin-bottom:3px;user-select:none;-webkit-user-select:none;cursor:default}.ui_text_input{box-sizing:border-box;width:100%;padding:5px;height:24px;line-height:24px;border:1px solid var(--border);background:var(--back);color:var(--font-mid);outline:none;border-radius:4px}.ui_select{background:var(--back);color:var(--font-mid);width:100%;height:24px;border:1px solid var(--border);border-radius:0;padding:0 2px;cursor:pointer;border-radius:4px}.ui_textarea{box-sizing:border-box;resize:vertical;width:100%;padding:3px 5px;border:1px solid var(--border);background:var(--back);color:var(--font-mid);outline:none;border-radius:4px}.ui_textarea::-webkit-scrollbar{width:7px;height:7px}.ui_textarea::-webkit-scrollbar-track{background:none}.ui_textarea::-webkit-scrollbar-thumb{background:var(--border);border-radius:4px}.ui_color_cont{display:flex;align-items:center;justify-content:space-between}.ui_color_cont .ui_label{margin:0}.ui_color{cursor:pointer;padding:0;margin:0;outline:none;border:none;background:none;height:22px;width:22px}.ui_file_chooser{display:none}.ui_file_chooser_label{background:var(--back);color:var(--font-mid);height:24px;border:1px solid var(--border);width:100%;display:block;cursor:pointer;padding:5px;box-sizing:border-box;white-space:nowrap;overflow:hidden;text-overflow:ellipsis;border-radius:4px}.ui_file_chooser_label.active{border-width:2px}`;
 }

diff --git a/test_dev/script.js b/test_dev/script.js
@@ -5,50 +5,54 @@ document.addEventListener("DOMContentLoaded", () => {
         .addFile('file', 'File')
         .addText('text', 'Text', '')
         .addNumber('number', 'Number', 128, 1)
-        .addRange('range', 'Range', 0, -180, 180, 5)
+        .addSlider('range', 'Range', 0, -180, 180, 5)
         .addSelect('select', 'Select', ['Mode 1', 'mode2', 'MODE_3'])
         .addHTML('html', 'HTML', '<h2>Hello</h2>')
         .addSwitch('switch', 'Switch', 0)
         .addArea('area', 'Area', 'abc')
+        .addColor('color', 'Color')
         .addButtons({ 'btn1': ['Button 1', null], 'btn2': 'Button 2' })
         .addButton('button', 'Button')
 
     ui.onChange((id, val, t) => console.log(id, val, t));
     // ui.removeAll();
 
-    new UI({x:'220px', title: 'Test UI', theme: 'dark noback' })
-        .addFile('file', 'File')
-        .addText('text', 'Text', '')
-        .addNumber('number', 'Number', 128, 1)
-        .addRange('range', 'Range', 0, -180, 180, 5)
-        .addSelect('select', 'Select', ['Mode 1', 'mode2', 'MODE_3'])
-        .addHTML('html', 'HTML', '<h2>Hello</h2>')
-        .addSwitch('switch', 'Switch', 0)
-        .addArea('area', 'Area', 'abc')
-        .addButtons({ 'btn1': ['Button 1', null], 'btn2': 'Button 2' })
-        .addButton('button', 'Button')
+    // new UI({x:'220px', title: 'Test UI', theme: 'dark noback' })
+    //     .addFile('file', 'File')
+    //     .addText('text', 'Text', '')
+    //     .addNumber('number', 'Number', 128, 1)
+    //     .addSlider('range', 'Range', 0, -180, 180, 5)
+    //     .addSelect('select', 'Select', ['Mode 1', 'mode2', 'MODE_3'])
+    //     .addHTML('html', 'HTML', '<h2>Hello</h2>')
+    //     .addSwitch('switch', 'Switch', 0)
+    //     .addArea('area', 'Area', 'abc')
+    //     .addColor('color', 'Color')
+    //     .addButtons({ 'btn1': ['Button 1', null], 'btn2': 'Button 2' })
+    //     .addButton('button', 'Button')
 
-    new UI({x:'440px', title: 'Test UI', theme: 'light ' })
-        .addFile('file', 'File')
-        .addText('text', 'Text', '')
-        .addNumber('number', 'Number', 128, 1)
-        .addRange('range', 'Range', 0, -180, 180, 5)
-        .addSelect('select', 'Select', ['Mode 1', 'mode2', 'MODE_3'])
-        .addHTML('html', 'HTML', '<h2>Hello</h2>')
-        .addSwitch('switch', 'Switch', 0)
-        .addArea('area', 'Area', 'abc')
-        .addButtons({ 'btn1': ['Button 1', null], 'btn2': 'Button 2' })
-        .addButton('button', 'Button')
+    // new UI({x:'440px', title: 'Test UI', theme: 'light ' })
+    //     .addFile('file', 'File')
+    //     .addText('text', 'Text', '')
+    //     .addNumber('number', 'Number', 128, 1)
+    //     .addSlider('range', 'Range', 0, -180, 180, 5)
+    //     .addSelect('select', 'Select', ['Mode 1', 'mode2', 'MODE_3'])
+    //     .addHTML('html', 'HTML', '<h2>Hello</h2>')
+    //     .addSwitch('switch', 'Switch', 0)
+    //     .addArea('area', 'Area', 'abc')
+    //     .addColor('color', 'Color')
+    //     .addButtons({ 'btn1': ['Button 1', null], 'btn2': 'Button 2' })
+    //     .addButton('button', 'Button')
 
-    new UI({x:'660px', title: 'Test UI', theme: 'dark ' })
-        .addFile('file', 'File')
-        .addText('text', 'Text', '')
-        .addNumber('number', 'Number', 128, 1)
-        .addRange('range', 'Range', 0, -180, 180, 5)
-        .addSelect('select', 'Select', ['Mode 1', 'mode2', 'MODE_3'])
-        .addHTML('html', 'HTML', '<h2>Hello</h2>')
-        .addSwitch('switch', 'Switch', 0)
-        .addArea('area', 'Area', 'abc')
-        .addButtons({ 'btn1': ['Button 1', null], 'btn2': 'Button 2' })
-        .addButton('button', 'Button')
+    // new UI({x:'660px', title: 'Test UI', theme: 'dark ' })
+    //     .addFile('file', 'File')
+    //     .addText('text', 'Text', '')
+    //     .addNumber('number', 'Number', 128, 1)
+    //     .addSlider('range', 'Range', 0, -180, 180, 5)
+    //     .addSelect('select', 'Select', ['Mode 1', 'mode2', 'MODE_3'])
+    //     .addHTML('html', 'HTML', '<h2>Hello</h2>')
+    //     .addSwitch('switch', 'Switch', 0)
+    //     .addArea('area', 'Area', 'abc')
+    //     .addColor('color', 'Color')
+    //     .addButtons({ 'btn1': ['Button 1', null], 'btn2': 'Button 2' })
+    //     .addButton('button', 'Button')
 });

diff --git a/UI.css b/UI.css
@@ -234,15 +234,25 @@
     border-radius: 4px;
 }
 
+.ui_color_cont {
+    display: flex;
+    align-items: center;
+    justify-content: space-between;
+}
+
+.ui_color_cont .ui_label {
+    margin: 0;
+}
+
 .ui_color {
+    cursor: pointer;
     padding: 0;
     margin: 0;
     outline: none;
-    cursor: pointer;
-    background: none;
     border: none;
-    height: 24px;
-    width: 100%;
+    background: none;
+    height: 22px;
+    width: 22px;
 }
 
 .ui_file_chooser {

diff --git a/test/script.js b/test/script.js
@@ -5,7 +5,7 @@ document.addEventListener("DOMContentLoaded", () => {
         .addFile('file', 'File')
         .addText('text', 'Text', '')
         .addNumber('number', 'Number', 128, 1)
-        .addRange('range', 'Range', 0, -180, 180, 5)
+        .addSlider('range', 'Range', 0, -180, 180, 5)
         .addSelect('select', 'Select', ['Mode 1', 'mode2', 'MODE_3'])
         .addHTML('html', 'HTML', '<h2>Hello</h2>')
         .addSwitch('switch', 'Switch', 0)

diff --git a/README.md b/README.md
@@ -99,7 +99,7 @@ onChange(cb);
 addSwitch(id, label, value, callback);
 addNumber(id, label, value, step, callback);
 addText(id, label, value, callback);
-addRange(id, label, value, min, max, step, callback);
+addSlider(id, label, value, min, max, step, callback);
 addArea(id, label, value, callback);
 addHTML(id, label, value);
 addElement(id, label, value);
@@ -108,7 +108,7 @@ addButton(id, label, callback);
 addButtons(buttons);
 addFile(id, label, callback);
 addColor(id, label, value, callback);
-addSpace();
+addSpace(height);
 ```
 
 ## Пример
@@ -121,7 +121,7 @@ let ui = new UI({ title: "Test UI", theme: 'dark' })
     .addFile('file', 'File')
     .addText('text', 'Text', '')
     .addNumber('number', 'Number', 128, 1)
-    .addRange('range', 'Range', 0, -180, 180, 5)
+    .addSlider('slider', 'Slider', 0, -180, 180, 5)
     .addSelect('select', 'Select', ['Mode 1', 'mode2', 'MODE_3'])
     .addHTML('html', 'HTML', '<h2>Hello</h2>')
     .addSwitch('switch', 'Switch', 0)
